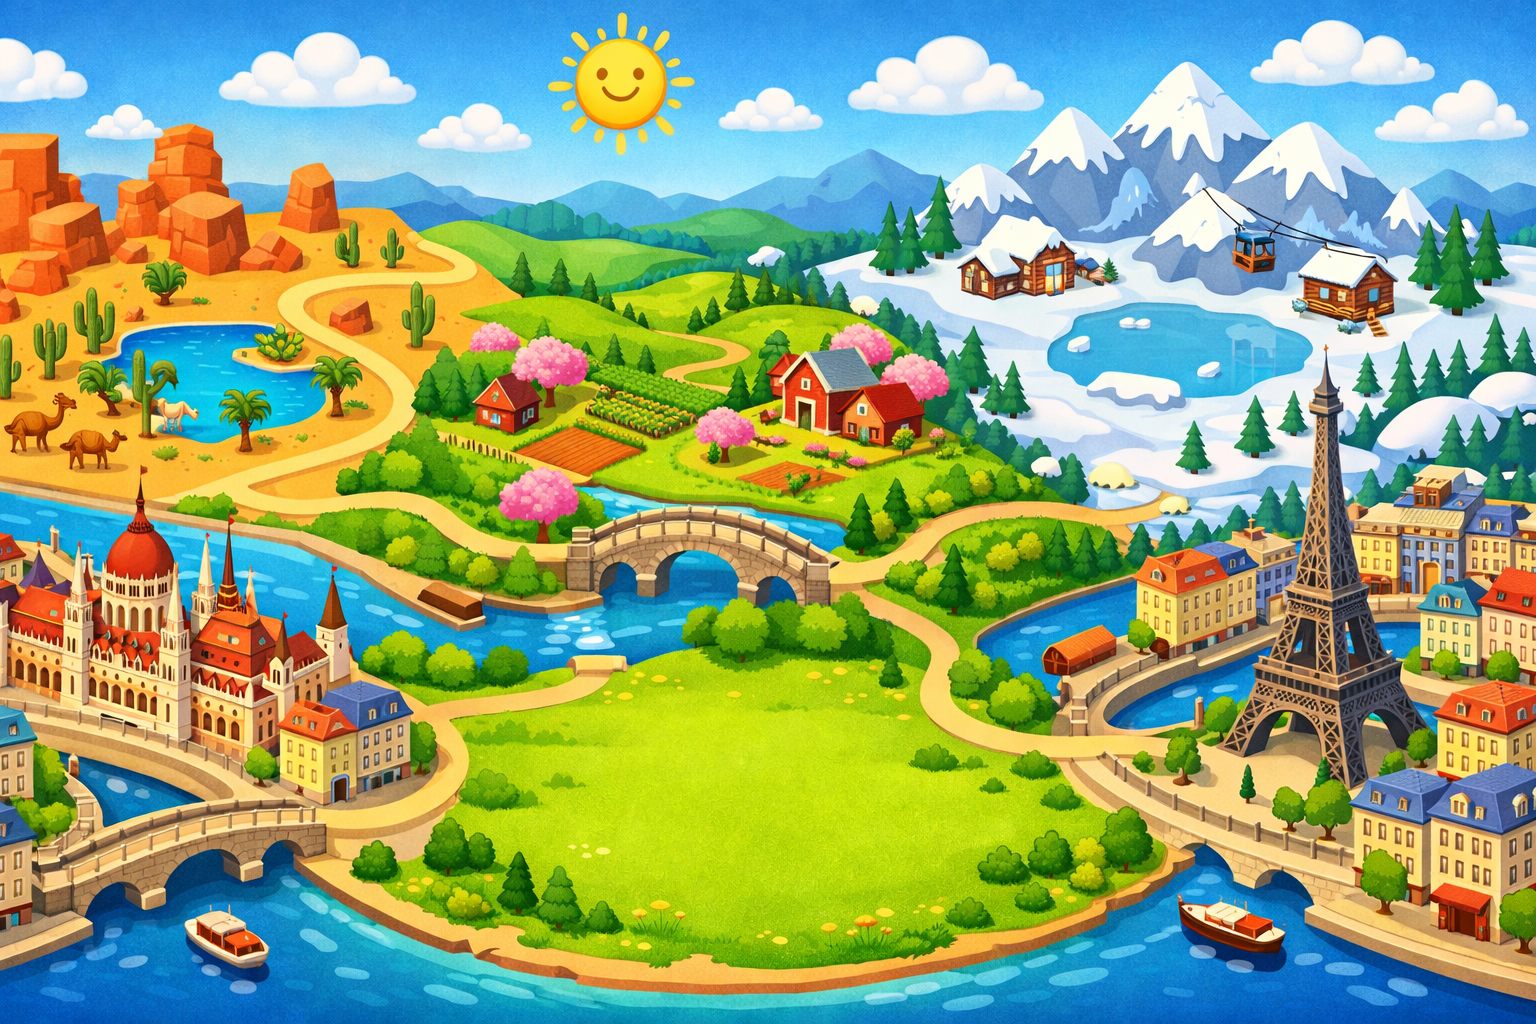
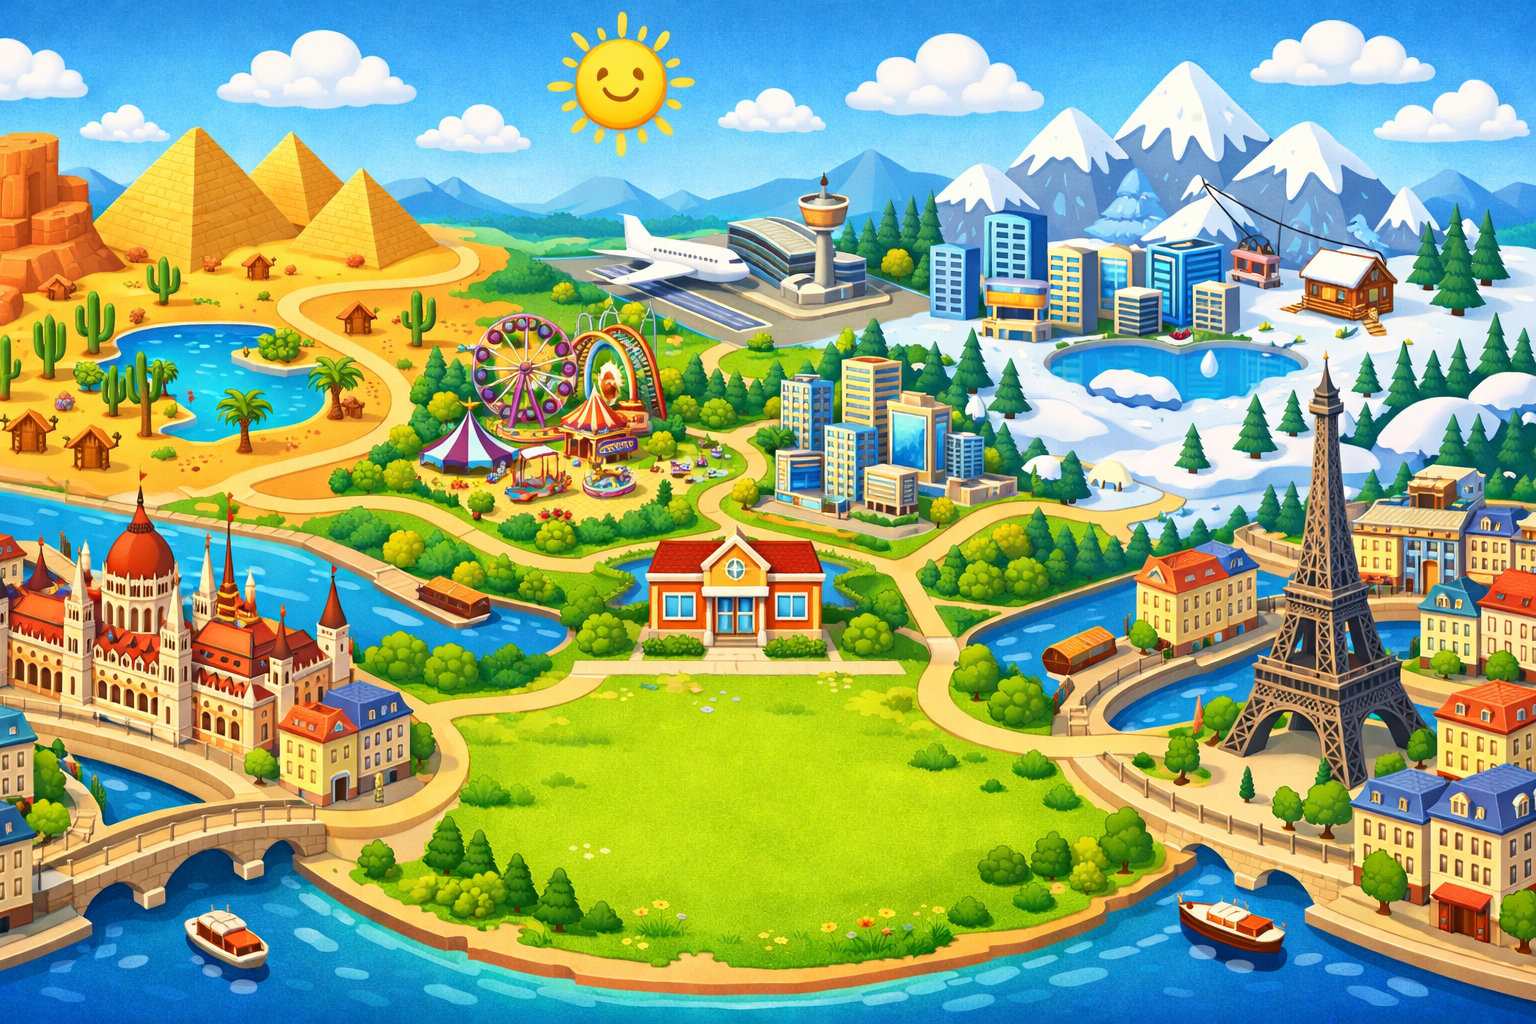
Replace City Hub background with all-buildings illustration
New AI-generated world map includes all 8 locations baked in (School,
City, Fun Zone, Airport, France, N. Pole, Hungary, Egypt). Set all
buildings to bgLandmark:true and repositioned click zones to match.

diff --git a/src/constants/buildings.js b/src/constants/buildings.js
@@ -10,29 +10,29 @@ export const MAP_AREAS = [
 ];
 
 export const CITY_BUILDINGS = [
-  // School — center green field
-  {idx:0,name:'School',areaIdx:0,pctX:.46,pctY:.72,buildW:130,buildH:140,glowColor:'#fbbf24',
-   roofColor:'#ef4444',wallColor:'#fef3c7',accentColor:'#dc2626',doorColor:'#92400e',buildFn:'buildSchoolEl'},
-  // City — left side, near river
-  {idx:1,name:'City',areaIdx:1,pctX:.30,pctY:.54,buildW:120,buildH:140,glowColor:'#6366f1',
-   roofColor:'#6366f1',wallColor:'#ede9fe',accentColor:'#4338ca',doorColor:'#374151',buildFn:'buildCityEl'},
-  // Fun Zone — center-right, near farm area
-  {idx:2,name:'\u{1F3AC}Fun Zone',areaIdx:2,pctX:.60,pctY:.40,buildW:90,buildH:100,glowColor:'#ec4899',
-   roofColor:'#ec4899',wallColor:'#fce7f3',accentColor:'#be185d',doorColor:'#831843',buildFn:'buildFunEl'},
-  // Airport — upper center, near bridge
-  {idx:3,name:'Airport',areaIdx:3,pctX:.46,pctY:.36,buildW:110,buildH:90,glowColor:'#64748b',
-   roofColor:'#475569',wallColor:'#f1f5f9',accentColor:'#334155',doorColor:'#1e293b',buildFn:'buildAirportEl'},
-  // France — bottom-right, over Eiffel Tower in background
-  {idx:4,name:'France',areaIdx:4,pctX:.82,pctY:.68,buildW:65,buildH:130,glowColor:'#f472b6',
+  // School — center, red-roofed building on green field
+  {idx:0,name:'School',areaIdx:0,pctX:.42,pctY:.58,buildW:130,buildH:140,glowColor:'#fbbf24',
+   roofColor:'#ef4444',wallColor:'#fef3c7',accentColor:'#dc2626',doorColor:'#92400e',buildFn:'buildSchoolEl',bgLandmark:true},
+  // City — center-right, tall buildings
+  {idx:1,name:'City',areaIdx:1,pctX:.55,pctY:.45,buildW:120,buildH:140,glowColor:'#6366f1',
+   roofColor:'#6366f1',wallColor:'#ede9fe',accentColor:'#4338ca',doorColor:'#374151',buildFn:'buildCityEl',bgLandmark:true},
+  // Fun Zone — center-left, ferris wheel & carnival
+  {idx:2,name:'\u{1F3AC}Fun Zone',areaIdx:2,pctX:.30,pctY:.45,buildW:90,buildH:100,glowColor:'#ec4899',
+   roofColor:'#ec4899',wallColor:'#fce7f3',accentColor:'#be185d',doorColor:'#831843',buildFn:'buildFunEl',bgLandmark:true},
+  // Airport — top-center, airplane & control tower
+  {idx:3,name:'Airport',areaIdx:3,pctX:.52,pctY:.28,buildW:110,buildH:90,glowColor:'#64748b',
+   roofColor:'#475569',wallColor:'#f1f5f9',accentColor:'#334155',doorColor:'#1e293b',buildFn:'buildAirportEl',bgLandmark:true},
+  // France — bottom-right, Eiffel Tower
+  {idx:4,name:'France',areaIdx:4,pctX:.78,pctY:.62,buildW:65,buildH:130,glowColor:'#f472b6',
    roofColor:'#9d174d',wallColor:'#fce7f3',accentColor:'#be185d',doorColor:'#6b7280',buildFn:'buildFranceEl',bgLandmark:true},
-  // N. Pole — snow area, top-right
-  {idx:5,name:'\u{2744}\u{FE0F}N. Pole',areaIdx:5,pctX:.82,pctY:.32,buildW:95,buildH:95,glowColor:'#93c5fd',
+  // N. Pole — top-right, snowy mountains & cabin
+  {idx:5,name:'\u{2744}\u{FE0F}N. Pole',areaIdx:5,pctX:.82,pctY:.30,buildW:95,buildH:95,glowColor:'#93c5fd',
    roofColor:'#e2e8f0',wallColor:'#f0f9ff',accentColor:'#94a3b8',doorColor:'#475569',buildFn:'buildPoleEl',bgLandmark:true},
-  // Hungary — bottom-left, over Parliament in background
-  {idx:6,name:'Hungary',areaIdx:6,pctX:.15,pctY:.72,buildW:105,buildH:110,glowColor:'#dc2626',
+  // Hungary — bottom-left, Parliament building
+  {idx:6,name:'Hungary',areaIdx:6,pctX:.15,pctY:.68,buildW:105,buildH:110,glowColor:'#dc2626',
    roofColor:'#dc2626',wallColor:'#fef3c7',accentColor:'#16a34a',doorColor:'#92400e',buildFn:'buildHungaryEl',bgLandmark:true},
-  // Egypt — desert area, top-left
-  {idx:7,name:'Egypt',areaIdx:7,pctX:.13,pctY:.38,buildW:110,buildH:120,glowColor:'#f59e0b',
+  // Egypt — top-left, pyramids & desert
+  {idx:7,name:'Egypt',areaIdx:7,pctX:.13,pctY:.30,buildW:110,buildH:120,glowColor:'#f59e0b',
    roofColor:'#f59e0b',wallColor:'#fef3c7',accentColor:'#d97706',doorColor:'#78350f',buildFn:'buildEgyptEl',bgLandmark:true},
 ];
 
